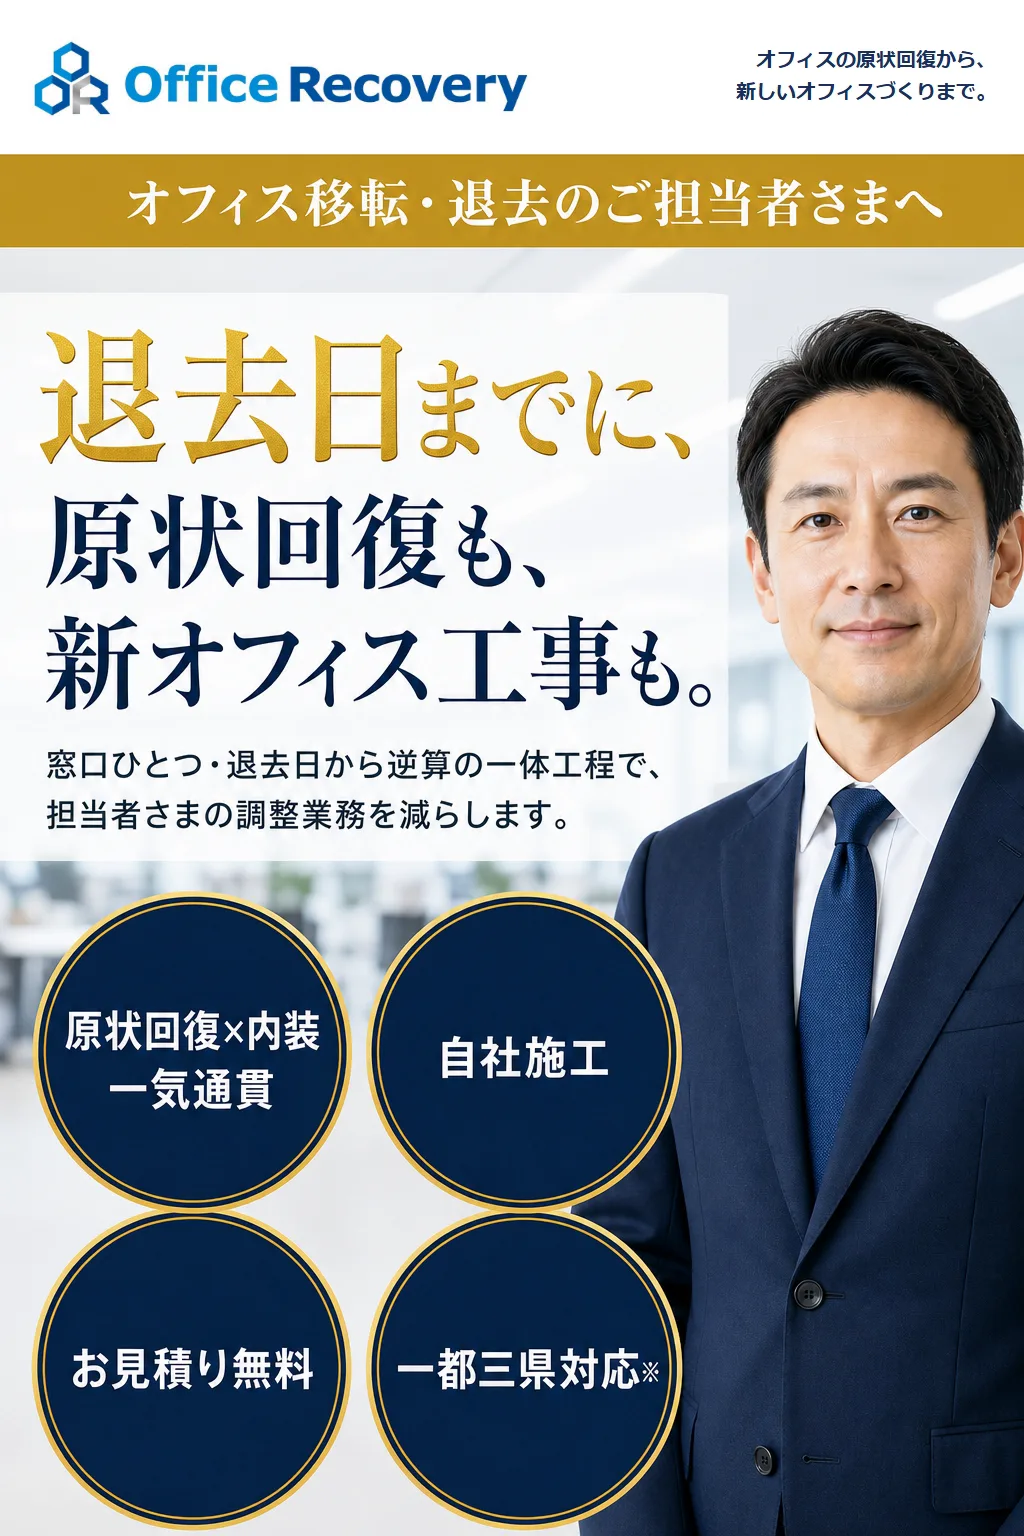
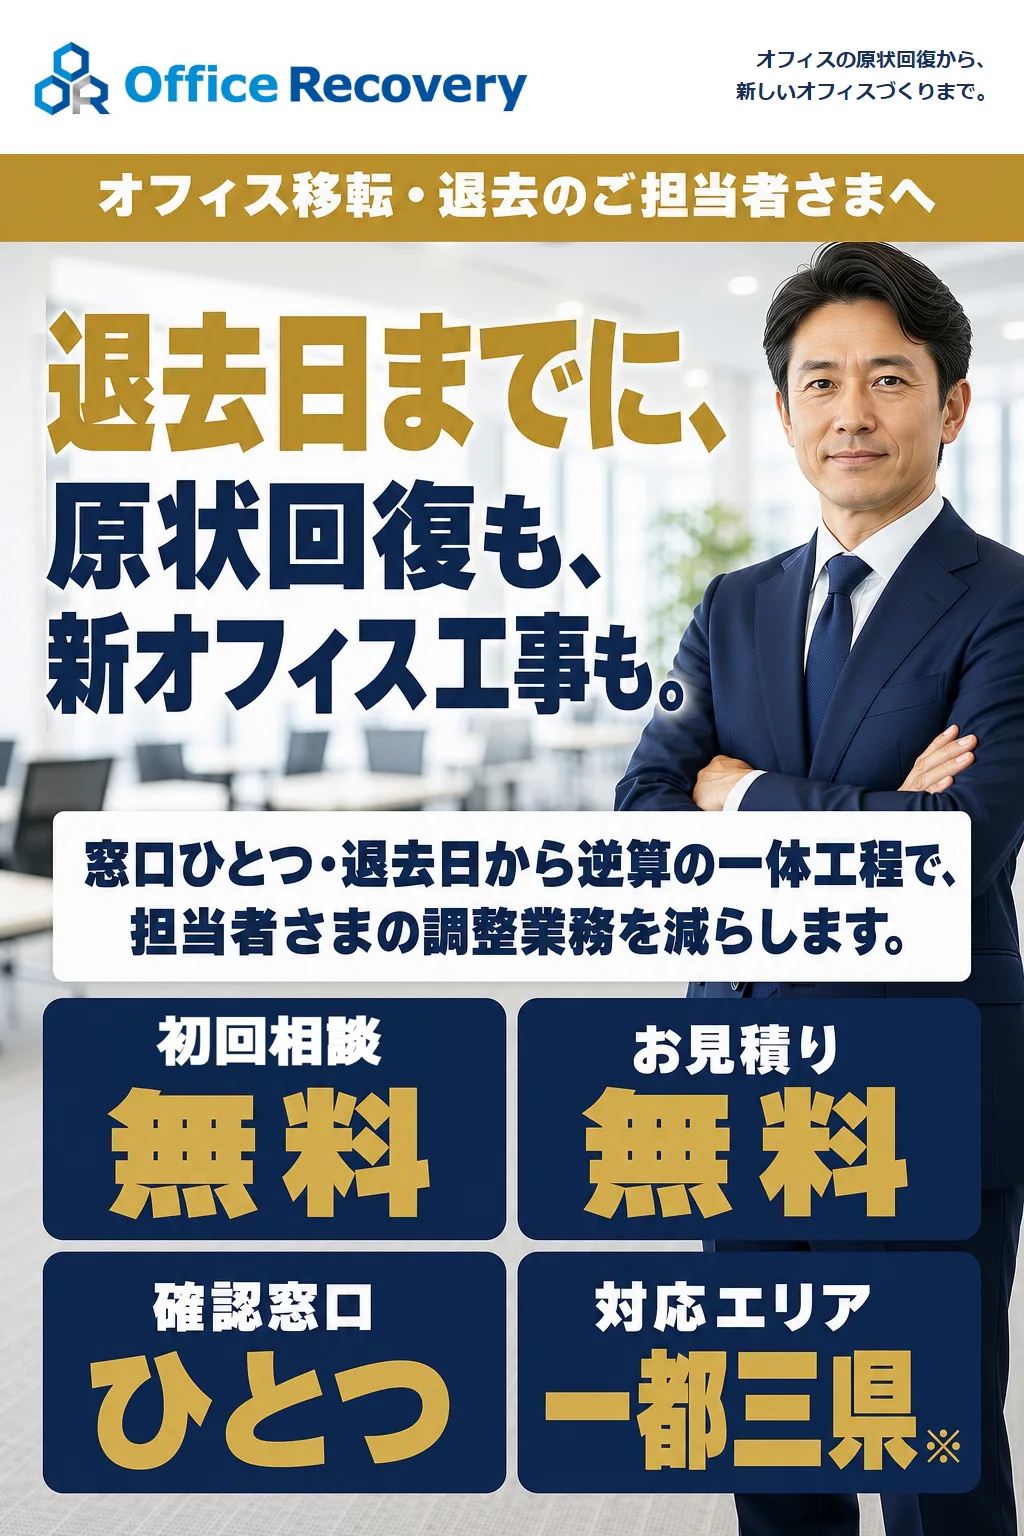
LP v3.1: visual overhaul (gothic bold typography, number blocks FV, larger keyword bands)

diff --git a/index.html b/index.html
@@ -31,8 +31,9 @@
     .cta-band .lead {
       margin: 0 0 14px;
       color: #fff;
-      font-family: "Yu Mincho", "YuMincho", serif;
-      font-size: 16px;
+      font-family: Meiryo, sans-serif;
+      font-weight: bold;
+      font-size: 17px;
       letter-spacing: 1px;
     }
     .cta-band a {
